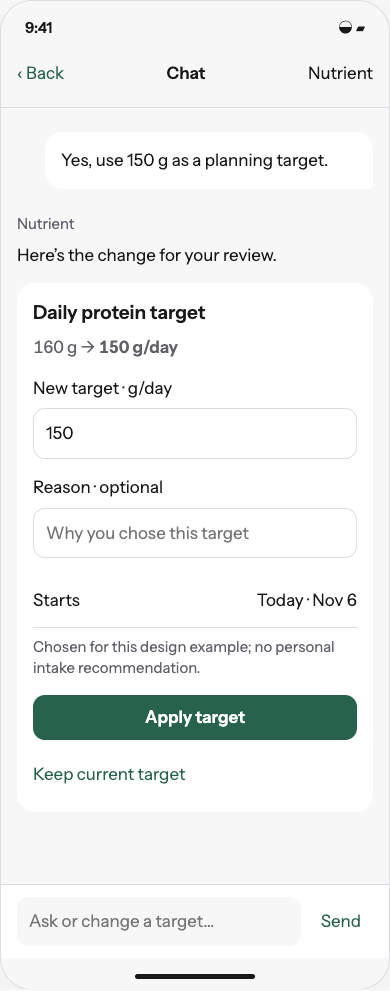
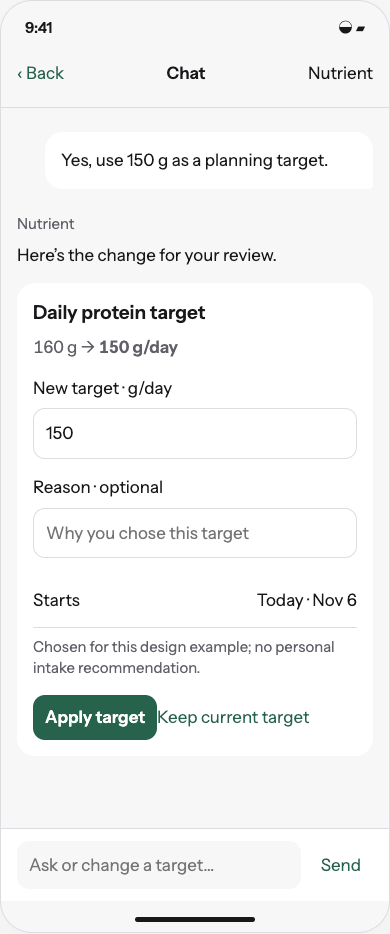
Refine phone layout, reference labels and action sizing

diff --git a/design/2026-11-06/chat-goals/index.html b/design/2026-11-06/chat-goals/index.html
@@ -2,9 +2,9 @@
 @font-face{font-family:Instrument;src:url('../../../ios/App/App/Fonts/InstrumentSans-Regular.ttf')}@font-face{font-family:Instrument;src:url('../../../ios/App/App/Fonts/InstrumentSans-SemiBold.ttf');font-weight:600}
 :root{--bg:#f7f7f8;--surface:#fff;--ink:#18181b;--secondary:#606068;--rule:#dddde1;--fern:#27634c;--soft:#edf2ef;--ochre:#80580d;--error:#a52c34;font-size:17px;color-scheme:light}
 *{box-sizing:border-box}body{margin:0;background:var(--bg);color:var(--ink);font-family:Instrument,system-ui,sans-serif;line-height:1.45}body.dark{--bg:#121214;--surface:#202023;--ink:#fafafa;--secondary:#b1b1b9;--rule:#39393f;--fern:#a3d3b7;--soft:#293c32;--ochre:#e6c272;--error:#ffb0b4;color-scheme:dark}body.large{font-size:23px}
-button,input,select,textarea{font:inherit;color:inherit}button,a,input,select,textarea{touch-action:manipulation}button{min-height:44px;white-space:normal;text-align:left;background:none;border:0;padding:10px 12px;border-radius:12px;cursor:pointer}button:focus-visible,a:focus-visible{outline:3px solid var(--fern);outline-offset:3px}button.primary{background:var(--fern);color:var(--surface);text-align:center;font-weight:600}button.secondary{background:var(--soft);color:var(--fern)}button.full{display:block;width:100%;margin-top:12px}button.link{color:var(--fern);padding-inline:0}button:disabled{opacity:.5;cursor:default}a{color:var(--fern)}
+button,input,select,textarea{font:inherit;color:inherit}button,a,input,select,textarea{touch-action:manipulation}button{min-height:44px;white-space:normal;text-align:left;background:none;border:0;padding:10px 12px;border-radius:12px;cursor:pointer}button:focus-visible,a:focus-visible{outline:3px solid var(--fern);outline-offset:3px}button.primary{background:var(--fern);color:var(--surface);text-align:center;font-weight:600}button.secondary{background:var(--soft);color:var(--fern)}button.link{color:var(--fern);padding-inline:0}button:disabled{opacity:.5;cursor:default}a{color:var(--fern)}
 .review{padding:32px;max-width:1160px;margin:auto;display:grid;grid-template-columns:minmax(220px,1fr) minmax(320px,390px);gap:64px;align-items:start}.review h1{font-size:34px;line-height:1.1;letter-spacing:-.8px;margin:16px 0}.review aside{max-width:460px}.eyebrow{color:var(--secondary);font-size:15px}.lede{font-size:20px}.tools{display:flex;flex-wrap:wrap;gap:8px;margin:24px 0}.tools button{border:1px solid var(--rule)}.steps{display:grid;gap:8px;margin-top:24px}.steps button{border-bottom:1px solid var(--rule);border-radius:0;padding:12px 0}.steps button[aria-current=step]{color:var(--fern);font-weight:600}.stage{color:var(--fern);font-weight:600}.note{font-size:15px;color:var(--secondary)}
-.phone{width:100%;background:var(--bg);border:1px solid var(--rule);border-radius:32px;overflow:hidden;min-height:780px;box-shadow:0 12px 44px #00000008}.status{display:flex;justify-content:space-between;padding:16px 24px 8px;font-size:15px;font-weight:600}.nativebar{display:flex;align-items:center;justify-content:space-between;gap:8px;padding:4px 16px 12px;border-bottom:1px solid var(--rule)}.nativebar strong{font-weight:600}.nativebar button{color:var(--fern);padding-inline:0;flex-shrink:0}.screen{padding:24px 16px;min-height:640px}.screen h2{font-size:28px;line-height:1.2;letter-spacing:-.5px;margin:0 0 8px}.screen h3{font-size:19px;margin:24px 0 8px;font-weight:600}.screen p{margin:8px 0 16px}.muted{color:var(--secondary)}.small{font-size:.88em}.mono{font-variant-numeric:tabular-nums}.user{background:var(--surface);border-radius:18px 18px 4px 18px;padding:16px;margin:0 0 24px 28px}.assistant{margin:0 0 24px}.assistant .label{font-size:15px;color:var(--secondary);margin-bottom:8px}.card{background:var(--surface);border-radius:18px;padding:16px;margin:16px 0}.card h3{margin-top:0}.row{display:flex;align-items:center;justify-content:space-between;gap:16px;padding:14px 0;border-bottom:1px solid var(--rule);min-height:52px}.row>*{min-width:0}.row>span:last-child{text-align:right}.row small{display:block;color:var(--secondary);font-size:15px}.navrow{width:100%;display:flex;align-items:center;justify-content:space-between;gap:16px;padding:16px 0;border-bottom:1px solid var(--rule);border-radius:0}.navrow span{min-width:0}.navrow small{display:block;font-size:15px;margin-top:4px}.chevron{color:var(--secondary);flex-shrink:0}.big{font-size:34px;line-height:1.15;font-weight:600;font-variant-numeric:tabular-nums;margin:20px 0 4px}.meter{height:7px;background:var(--rule);border-radius:4px;overflow:hidden;margin:16px 0}.meter i{display:block;height:100%;background:var(--fern)}.choices{display:flex;gap:8px;flex-wrap:wrap}.choices button{background:var(--surface);border:1px solid var(--rule)}label.field{display:block;margin:16px 0}label.field>span{display:block;margin-bottom:8px}input,select,textarea{background:var(--surface);border:1px solid var(--rule);border-radius:12px;padding:12px;width:100%;min-height:48px}textarea{resize:vertical;min-height:200px;line-height:1.5}.inline{display:flex;align-items:center;gap:12px}.inline input{width:auto}.receipt{padding:16px 0;border-block:1px solid var(--rule);margin:20px 0}.receipt strong{display:block}.alert{color:var(--error)}.safe{height:5px;width:120px;border-radius:4px;background:var(--ink);margin:16px auto 10px}.composer{display:flex;align-items:center;gap:8px;border-top:1px solid var(--rule);padding:12px 16px;background:var(--surface)}.composer input{border:0;background:var(--bg);font-size:17px}.composer button{color:var(--fern)}[role=status]{min-height:24px;color:var(--fern);font-size:15px}.timeline{border-left:2px solid var(--rule);padding-left:16px;margin:20px 0}.timeline>div{margin-bottom:24px}.pill{font-size:15px;color:var(--secondary)}.reportline{border-left:3px solid var(--fern);padding-left:16px;margin:24px 0}.reportline .big{margin:8px 0}.footer{padding:0 32px 24px;max-width:1160px;margin:auto;color:var(--secondary);font-size:15px}
+.phone{width:100%;background:var(--bg);border:1px solid var(--rule);border-radius:32px;overflow:hidden;min-height:780px;box-shadow:0 12px 44px #00000008}.status{display:flex;justify-content:space-between;padding:16px 24px 8px;font-size:15px;font-weight:600}.nativebar{display:flex;align-items:center;justify-content:space-between;gap:8px;padding:4px 16px 12px;border-bottom:1px solid var(--rule)}.nativebar strong{font-weight:600}.nativebar button{color:var(--fern);padding-inline:0;flex-shrink:0}.screen{padding:24px 16px;min-height:640px}.screen h2{font-size:28px;line-height:1.2;letter-spacing:-.5px;margin:0 0 8px}.screen h3{font-size:19px;margin:24px 0 8px;font-weight:600}.screen p{margin:8px 0 16px}.muted{color:var(--secondary)}.small{font-size:.88em}.mono{font-variant-numeric:tabular-nums}.user{background:var(--surface);border-radius:18px 18px 4px 18px;padding:16px;margin:0 0 24px 28px}.assistant{margin:0 0 24px}.assistant .label{font-size:15px;color:var(--secondary);margin-bottom:8px}.card{background:var(--surface);border-radius:18px;padding:16px;margin:16px 0}.card h3{margin-top:0}.row{display:flex;align-items:center;justify-content:space-between;gap:16px;padding:14px 0;border-bottom:1px solid var(--rule);min-height:52px}.row>*{min-width:0}.row>span:last-child{text-align:right}.row small{display:block;color:var(--secondary);font-size:15px}.navrow{width:100%;display:flex;align-items:center;justify-content:space-between;gap:16px;padding:16px 0;border-bottom:1px solid var(--rule);border-radius:0}.navrow span{min-width:0}.navrow small{display:block;font-size:15px;margin-top:4px}.chevron{color:var(--secondary);flex-shrink:0}.big{font-size:34px;line-height:1.15;font-weight:600;font-variant-numeric:tabular-nums;margin:20px 0 4px}.meter{height:7px;background:var(--rule);border-radius:4px;overflow:hidden;margin:16px 0}.meter i{display:block;height:100%;background:var(--fern)}.choices{display:flex;gap:8px;flex-wrap:wrap}.choices button{background:var(--surface);border:1px solid var(--rule)}label.field{display:block;margin:16px 0}label.field>span{display:block;margin-bottom:8px}input,select,textarea{background:var(--surface);border:1px solid var(--rule);border-radius:12px;padding:12px;width:100%;min-height:48px}textarea{resize:vertical;min-height:200px;line-height:1.5}.inline{display:flex;align-items:center;gap:12px}.inline input{width:auto}.receipt{padding:16px 0;border-block:1px solid var(--rule);margin:20px 0}.receipt strong{display:block}.alert{color:var(--error)}.safe{height:5px;width:120px;border-radius:4px;background:var(--ink);margin:16px auto 10px}.composer{display:flex;align-items:center;gap:8px;border-top:1px solid var(--rule);padding:12px 16px;background:var(--surface)}.composer input{border:0;background:var(--bg);font-size:17px}.composer button{color:var(--fern)}[role=status]{min-height:24px;color:var(--fern);font-size:15px}.timeline{margin:20px 0}.timeline>div{margin-bottom:24px}.pill{font-size:15px;color:var(--secondary)}.reportline{margin:24px 0}.reportline .big{margin:8px 0}.footer{padding:0 32px 24px;max-width:1160px;margin:auto;color:var(--secondary);font-size:15px}
 @media(max-width:760px){.review{display:flex;flex-direction:column;padding:20px 16px;gap:24px}.review aside{max-width:none}.phone{max-width:430px;align-self:center}.steps{display:flex;flex-wrap:wrap;gap:4px}.steps button{padding:8px}.review h1{font-size:28px}.lede{font-size:17px}.footer{padding:16px}}@media(prefers-reduced-motion:no-preference){button{transition:background .16s ease-out}}
 </style></head><body>
     <main class="review"><aside><div class="eyebrow">NUTRIENT / INTERACTION STUDY / NOV 6, 2026</div><h1>A conversation before a proposal</h1><p class="lede">Start with the question. Let the user choose when to turn the discussion into a settings change. A direct request takes the short route.</p><p class="stage">First implementation</p><div class="tools"><button onclick="toggleTheme()">Light / dark</button><button onclick="toggleText()">Larger text</button><button onclick="directChange()">Try explicit change request</button></div><nav class="steps" aria-label="Review scenario"><button onclick="go(0)" aria-current="false">Explore a goal</button><button onclick="go(1)" aria-current="false">Invite a proposal</button><button onclick="go(2)" aria-current="false">Review &amp; apply</button><button onclick="go(3)" aria-current="false">Decision history</button><button onclick="go(4)" aria-current="false">Across recorded days</button></nav><p class="note">Browser reference for a future native SwiftUI flow. Synthetic data. Changes stay in this page’s memory; no app data, tools or notifications are connected.</p><a href="https://github.com/kggreco11/nutrient/issues/1">Implementation issue #1 ↗</a></aside>
@@ -27,7 +27,7 @@ const titles=['Chat','Chat','Chat','Goal history','Chat'];
 const screens=[
 ()=>user('I want to rethink my protein goal.')+reply(`<p>We can look at the evidence and what you want the goal to support.</p><p>Are you mainly interested in strength training, endurance, or general nutrition?</p><div class="choices">${btn('Strength training',1,'secondary')}${btn('Just exploring',4,'secondary')}</div>`),
 ()=>user('Strength training. I’d like to understand it first.')+reply(`<p>We can separate the published reference intake from studies about strength training.</p><p>Would you like to work through your training context and prepare a target proposal?</p><div class="choices">${btn('Yes, draft a proposal',2,'secondary')}${btn('Keep discussing',4,'secondary')}</div><p class="muted small">Your current target is unchanged.</p>`),
-()=>user('Yes, use 150 g as a planning target.')+reply(`<p>Here’s the change for your review.</p><div class="card"><h3>Daily protein target</h3><p class="muted mono">${state.target} g → <strong>${state.draft} g/day</strong></p><label class="field"><span>New target · g/day</span><input id="draft" type="number" min="1" max="1000" value="${state.draft}" oninput="state.draft=Number(this.value)"></label><label class="field"><span>Reason · optional</span><input id="reason" placeholder="Why you chose this target" value="${escape(state.reason)}" oninput="state.reason=this.value"></label><div class="row"><span>Starts</span><span>Today · Nov 6</span></div><p class="small muted">Chosen for this design example; no personal intake recommendation.</p><button class="primary full" onclick="applyDraft()">Apply target</button>${btn('Keep current target',1,'link full')}</div>`),
+()=>user('Yes, use 150 g as a planning target.')+reply(`<p>Here’s the change for your review.</p><div class="card"><h3>Daily protein target</h3><p class="muted mono">${state.target} g → <strong>${state.draft} g/day</strong></p><label class="field"><span>New target · g/day</span><input id="draft" type="number" min="1" max="1000" value="${state.draft}" oninput="state.draft=Number(this.value)"></label><label class="field"><span>Reason · optional</span><input id="reason" placeholder="Why you chose this target" value="${escape(state.reason)}" oninput="state.reason=this.value"></label><div class="row"><span>Starts</span><span>Today · Nov 6</span></div><p class="small muted">Chosen for this design example; no personal intake recommendation.</p><button class="primary" onclick="applyDraft()">Apply target</button>${btn('Keep current target',1,'link')}</div>`),
 ()=>`<h2>Protein</h2><p class="muted">Your decisions, over time</p><div class="timeline"><div><span class="pill">NOV 6, 2026 · CHAT</span><h3>${state.target} g/day</h3><p>${escape(state.reason||'No reason saved. You can add one later.')}</p>${btn('Add or edit a reason',2)}</div><div><span class="pill">PREVIOUS SETTING</span><h3>160 g/day</h3><p class="muted">Earlier target dates weren’t recorded.</p></div></div>${nav('Discuss this decision',4,'Keep exploring without changing it')}`,
 ()=>user('How has my recorded protein intake compared with my goal?')+reply(`<p class="small muted">Oct 9–Nov 5 · 21 of 28 days recorded<br>Protein reported on 21 days</p><div class="big">142 g/day</div><p>Average over recorded days. Your target was 160 g/day during this period.</p><p>Seven days have no entries. These logs may not include everything you ate.</p><p>Would you like to look at the recorded foods or discuss the goal itself?</p><div class="choices">${btn('Discuss the goal',1,'secondary')}${btn('View goal history',3,'secondary')}</div>`)
 ];

diff --git a/.interface-design/system.md b/.interface-design/system.md
@@ -26,6 +26,12 @@ Spacing: 4 pt base. `FieldSpace`: tight 4, item 8, controls 12, inset 16, sectio
 
 Depth: surface tones and subtle rules. Reserve the main card for the progress summary; other home sections use spacing and headings. Rounded controls 12 pt, summary card 20 pt, recipe/chat surfaces 16–20 pt. Keep chrome quiet; use solid fills and purposeful SF Symbols.
 
+## Personal layout preferences
+
+- Group text with spacing, headings and subtle horizontal rules. Never use a decorative vertical accent stripe beside a card or text block.
+- Size action buttons to their labels with comfortable padding and at least 44 pt hit targets. Use full-width buttons only when the interaction or layout specifically calls for them; navigation and selectable data rows may use their full row.
+- Keep phone report overviews compact; open a selected nutrient's chart in detail instead of stacking large plots. Use plain-language reference labels, with specialist terminology explained in the detail view.
+
 ## Nutrition semantics
 
 Coverage is a score out of 100: mean of 31 capped nutrient percentages. It is not the fraction of targets met. Display the score and target-completion count separately; explain the scope in coverage details. Macros and calories are separate from the 31 targets.

diff --git a/design/2026-11-06/chat-goals/validation.md b/design/2026-11-06/chat-goals/validation.md
@@ -17,3 +17,10 @@
 - Browser screenshots are design references, not screenshots of the native app. No physical-device, native keyboard/safe-area, full VoiceOver or accessibility certification claim.
 - No live model, research retrieval, settings persistence, target migration, history aggregation, push permission, scheduled job or injection-resistance test. Those remain implementation acceptance criteria.
 - Prototype steps can be selected directly for review; that reviewer navigation does not represent a production route around proposal consent.
+
+## Compact-layout refinement
+
+- Rechecked all selectable states at 320/390 px with normal/larger text and light/dark appearance; no horizontal overflow or JavaScript page errors.
+- Action buttons use their content width; navigation/data rows keep full-row hit targets. Decorative text/card rails were removed.
+- Nutrient reference labels use plain language. The reports overview opens chart detail separately, and All nutrients exposes the full catalog with unsampled/partial states.
+- No physical-iPhone diary access or real-history analysis occurred. Native implementation/verification is still outstanding.

diff --git a/design/2026-11-06/chat-goals/README.md b/design/2026-11-06/chat-goals/README.md
@@ -70,3 +70,7 @@ No implementation issue is closed by this design PR. Preserve the diary and hist
 - [Nutrient evidence and baselines](https://github.com/kggreco11/nutrient/issues/2)
 - [Optional reports](https://github.com/kggreco11/nutrient/issues/3), dependent on historical context and baseline metadata
 - [Assistant response preferences](https://github.com/kggreco11/nutrient/issues/4), a later feature with protected app workflows
+
+## Layout refinement · 6 November 2026
+
+The shared design contract now records the user’s preference for content-sized action buttons, text grouped without decorative vertical accent rails, compact phone overviews, and plain-language reference labels. Navigation and selectable data rows retain full-row hit areas. Native implementation and iPhone validation remain outstanding.
